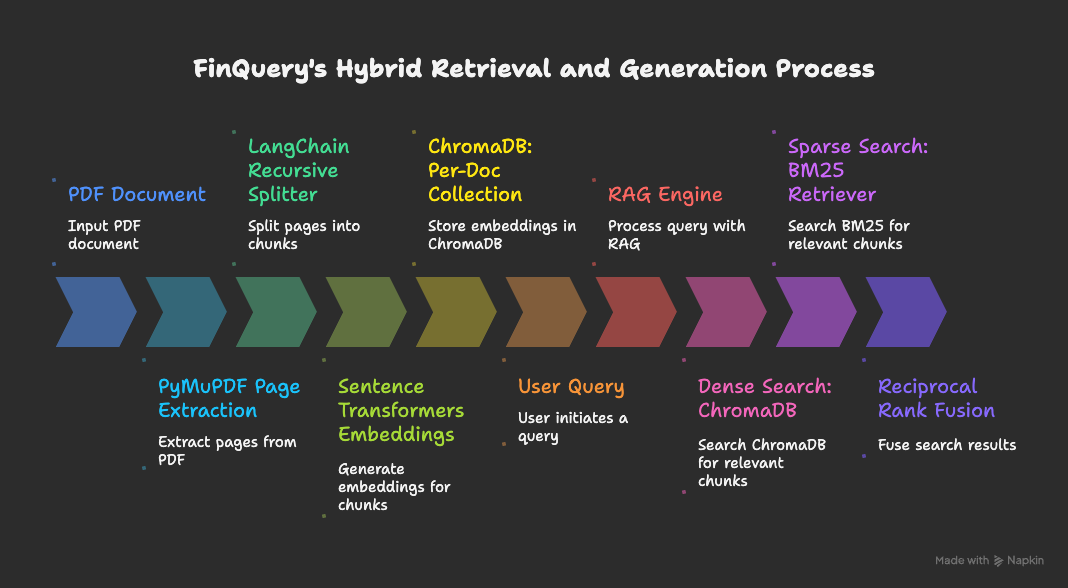
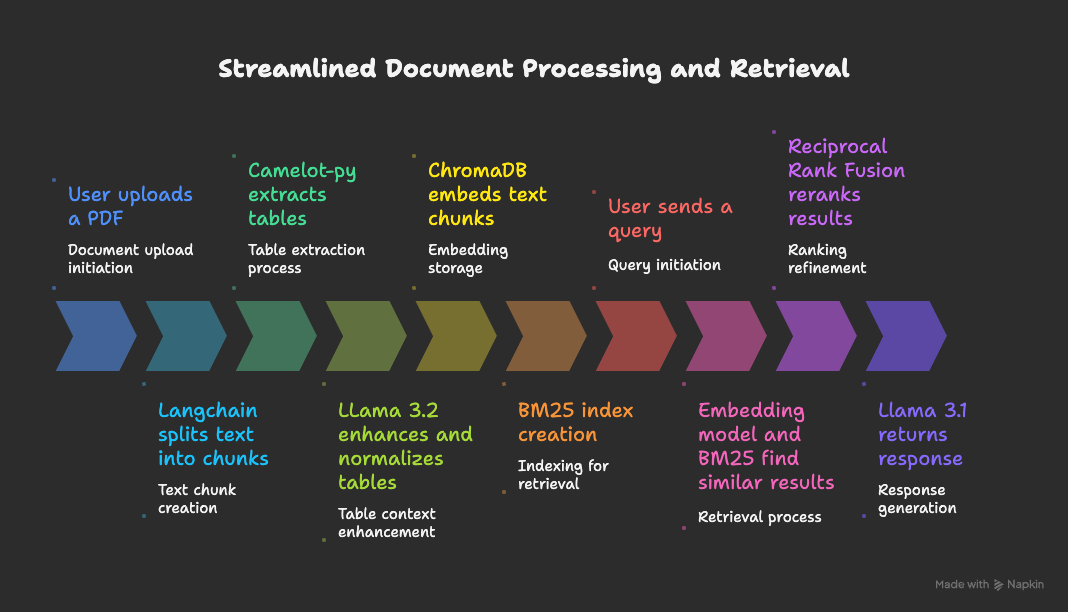
updated readme

diff --git a/README.md b/README.md
@@ -23,6 +23,7 @@ FinQuery addresses the **security** concerns of analyzing _personal_, dense `fin
 * **Multi-Document Intelligence**: Each document is managed in an isolated local collection, allowing for targeted or cross-document queries.
 * **Page-Level Citations**: Every answer includes the source filename and specific page number (e.g., `report.pdf, page 5`).
 * **Table-Aware Ingestion**: PDF processing is optimized to preserve the integrity of numerical data and tables.
+* **Context Enhancement**: Tables are passed in a small llm call to to normalize them and add context that can improve semantic search 
 
 ---
 
@@ -34,6 +35,7 @@ FinQuery addresses the **security** concerns of analyzing _personal_, dense `fin
 * **Vector Database**: ChromaDB (Persistent local storage).
 * **Embeddings**: Sentence-Transformers (`all-MiniLM-L6-v2`).
 * **Document Processing**: PyMuPDF and LangChain.
+* **Table Extraction**: Camelot-py
 
 ### Frontend
 * **Library**: React 19.
@@ -57,6 +59,7 @@ finquery/
 │   │   │   ├── schemas.py      # Pydantic schemas for API
 │   │   ├── services/
 │   │   │   ├── ingest.py       # PDF processing  
+│   │   │   ├── process_tables.py   # table processing
 │   │   │   ├── rag_engine.py   # Complete RAG logic
 │   │   │   ├── retrieval.py    # BM25 and RRF algorithms
 │   │   │   └── vector_store.py # ChromaDB management
@@ -82,6 +85,24 @@ finquery/
 * Node.js & npm.
 * Together AI API Key.
 
+### System Dependencies (Required for Camelot PDF Parsing)
+Camelot requires **Ghostscript** and **Tkinter** to be installed on your system to process PDF tables:
+
+* **macOS**:
+```bash
+brew install ghostscript tcl-tk
+```
+
+* **Linux (Ubuntu/Debian)**:
+```bash
+sudo apt update && sudo apt install ghostscript python3-tk
+```
+
+* **Windows**:
+1. Download and install the Ghostscript AGPL Release.
+2. Ensure the Ghostscript bin and lib folders are added to your System PATH.
+3. Tkinter is typically included with standard Python installations on Windows.  
+
 ---
 ### Installation
 1. Clone the Repository:
@@ -93,10 +114,20 @@ cd finquery
 2. Backend Setup:
 ```bash
 cd backend
+
+# install dependencies
 uv sync
+
+# Activate the virtual environment
+source .venv/bin/activate      # macOS/Linux
+# .venv\Scripts\activate       # Windows (CMD)
+# .venv\Scripts\Activate.ps1    # Windows (PowerShell)
+
+# start the backend
+uvicorn src.main:app --reload 
 ```
 
-3. Create a _.env_ file in this directory (backend):  
+3. Create a `.env` file in this directory (backend):  
 ```bash
 touch .env
 ```
